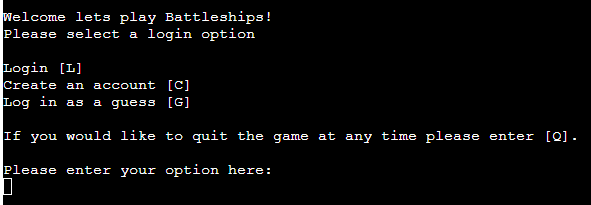
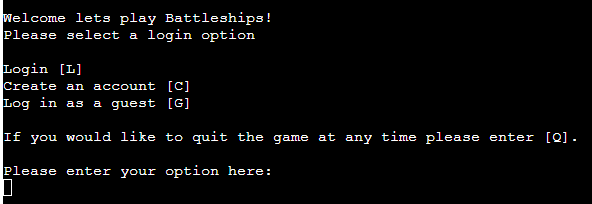
Amend spelling errors in the screenshots and in the text

diff --git a/README.md b/README.md
@@ -40,7 +40,7 @@ The aim for the user is to try and locate the computers ships before the compute
 
 - ### Input validation
     - The game will keep a track of which coordinates the players have already fired upon and display a reject message if they enter the same coordinates twice. 
-    - The game also checks that two numbers separated by a comma within the range of 1 to 5, i.e., the possible coordinates of the board. 
+    - The game also checks that two numbers are separated by a comma within the range of 1 to 5 which are the possible coordinates of the board. 
 
     ![Previously fired coordinates screenshot](assets/images/input%20error.png)
 
@@ -61,7 +61,7 @@ The aim for the user is to try and locate the computers ships before the compute
 ## Testing
 
 I have manually tested this project by: 
-- Checking the validation embedded in the [Code institute org/ python essentials template](https://github.com/Code-Institute-Org/python-essentials-template)
+- Checking the validation embedded in the [Code institute org/ python essentials template.](https://github.com/Code-Institute-Org/python-essentials-template)
     - All issues have been resolved baring the 'line too long' but this issue doesn't affect the game.
 - Checked the inputs by giving invalid inputs that were: empty inputs, numbers greater than the range, and invalid strings.
 - The program was tested in my local terminal and the Code Institute Heroku terminal.
